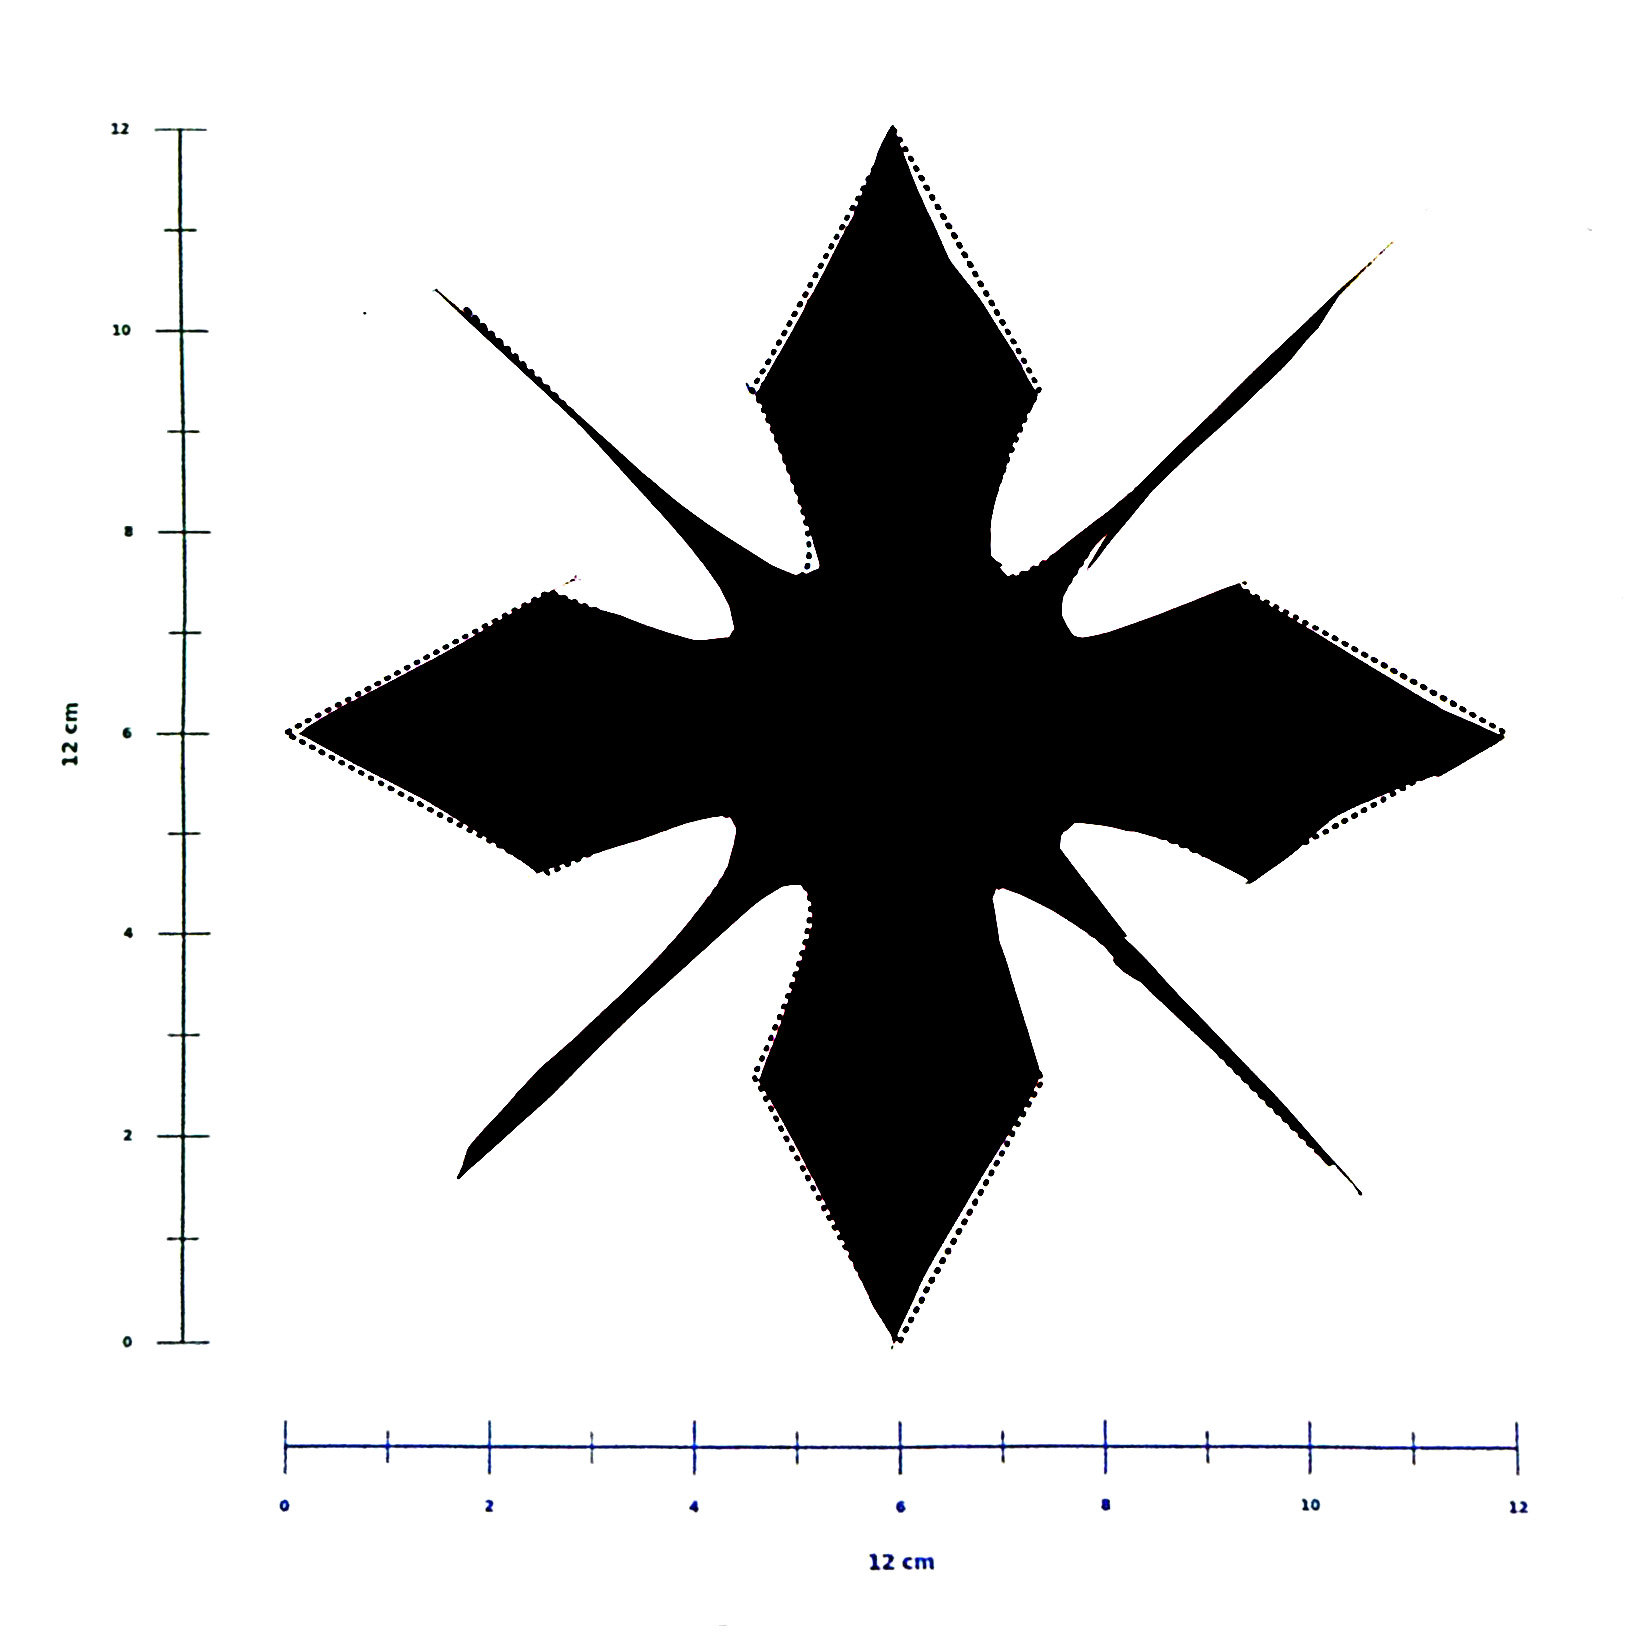
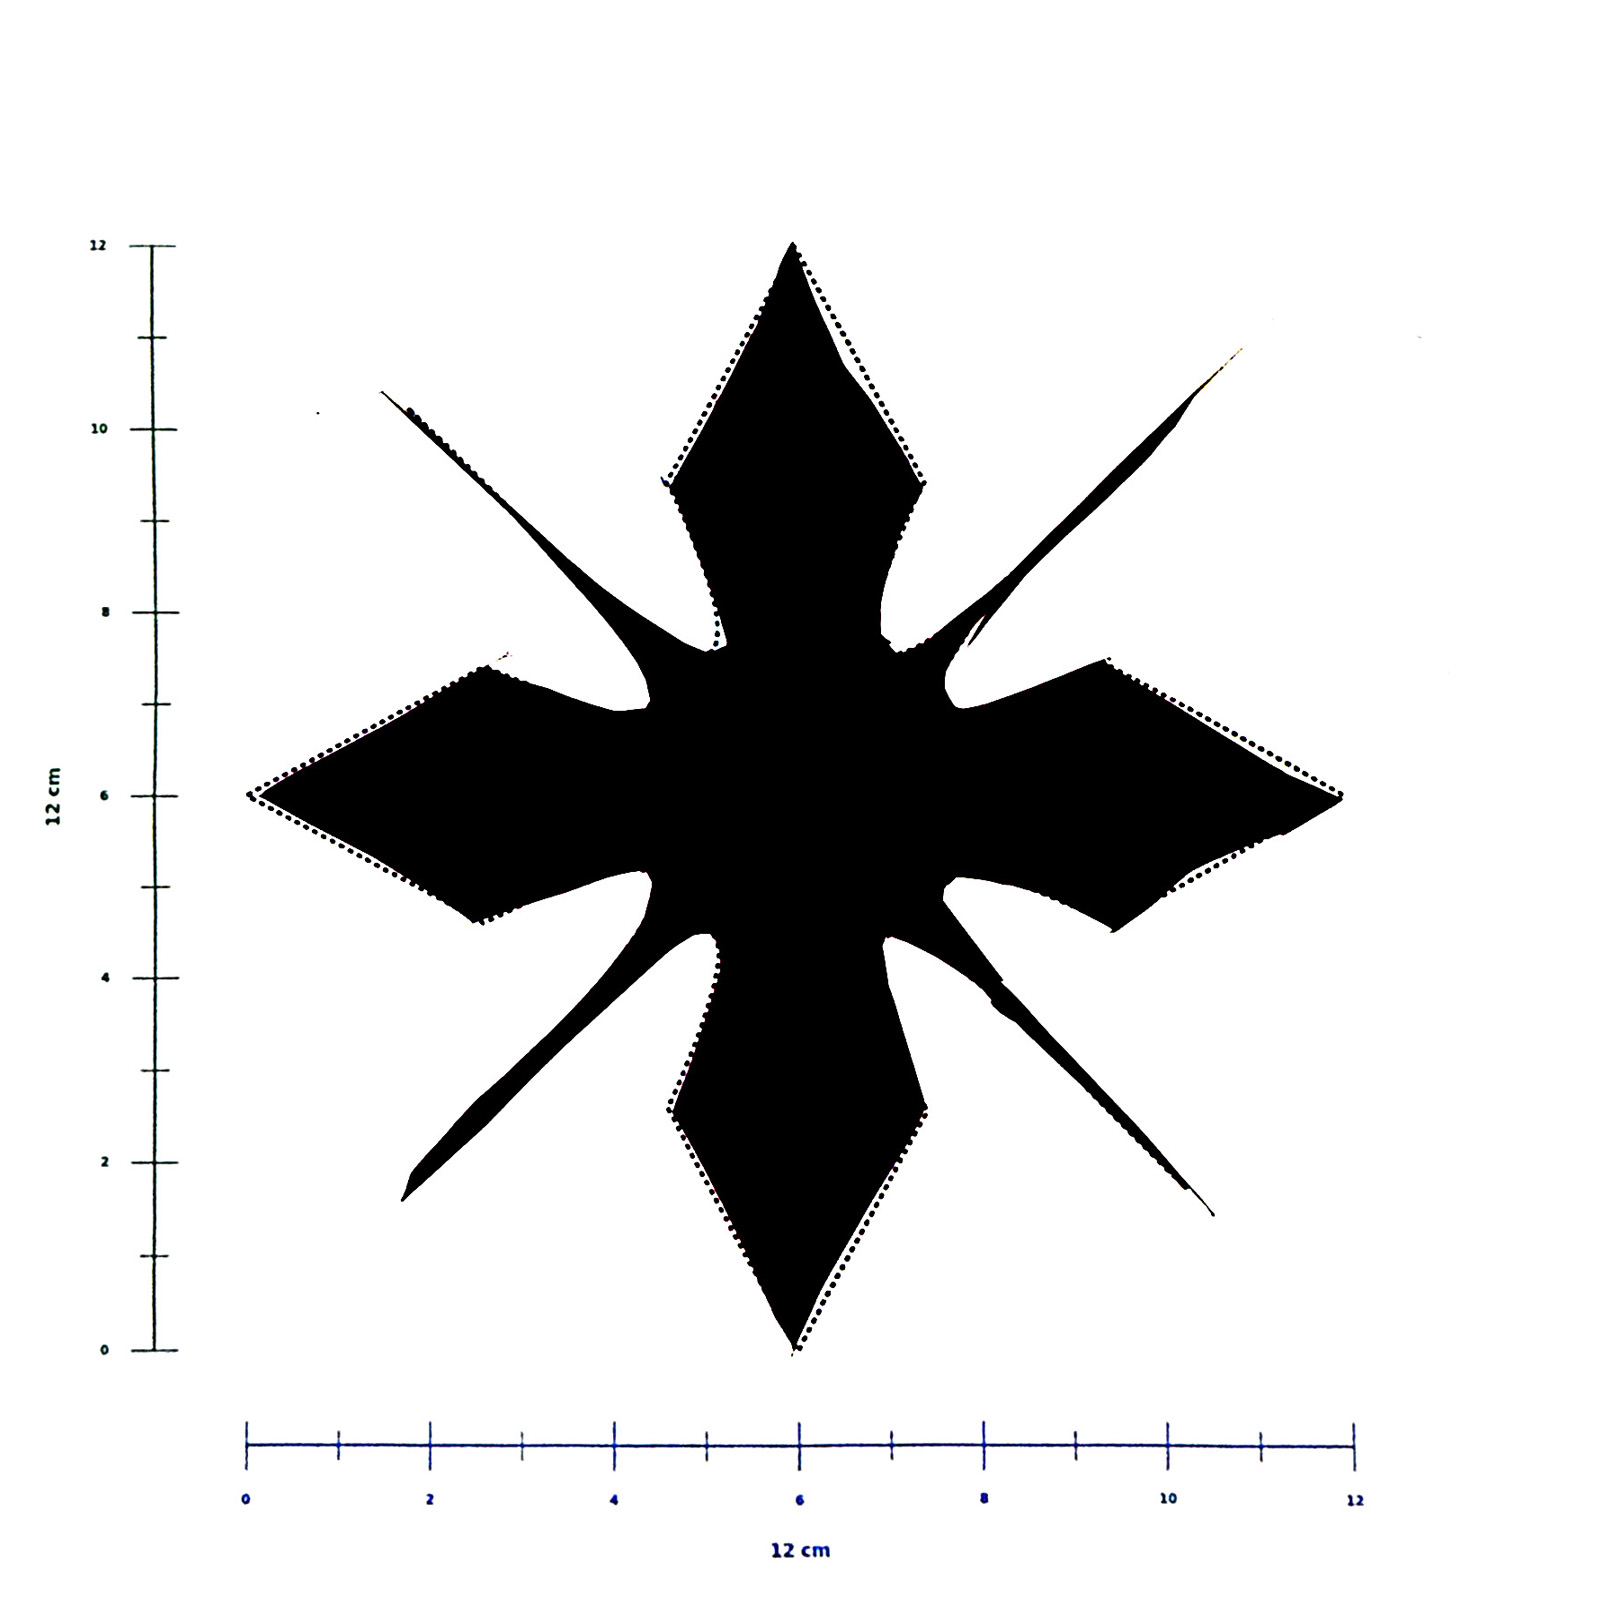
Select registration by contour MAD; improve axes
Add contour-based registration selection and axis-detection improvements. Introduces a selection flow in CLI that evaluates ORB/ECC/axes candidates by MAD between warped real contour and ideal points (KD-tree) and records selection_strategy, selection_mad_px and candidate debug rows in the report. Register module: include span estimates in axis frames, scale basis by span, refine Hough preprocessing (segment min ratio, ROI filters, lower Hough threshold floor), and add helpers to fit axis lines and estimate spans. Config: new registration options (axes_segment_min_line_ratio, axes_horizontal_roi_min_y_ratio, axes_vertical_roi_max_x_ratio). Add a pipeline runner script (executar_pipeline.command) and a unit test (tests/test_registration_selection.py) for the registration selection logic; update an existing CLI test to pick available template filename. Also remove some debug image outputs in CLI and adjust imports accordingly. Binary test image updated.

diff --git a/src/cut_precision/cli.py b/src/cut_precision/cli.py
@@ -29,6 +29,7 @@ from .metrics import (
     to_mm,
 )
 from .register import (
+    RegistrationResult,
     estimate_homography_axes,
     estimate_homography_ecc,
     estimate_homography_orb,
@@ -46,7 +47,6 @@ from .tau import (
 )
 from .tau_export import write_tau_curve_csv, write_tau_curve_png
 from .visualize import (
-    save_distance_map,
     save_error_map,
     save_histogram,
     save_mask,
@@ -381,7 +381,6 @@ def main(argv: list[str] | None = None) -> int:
     ideal = extract_ideal_contour(template, cfg.extraction)
     real = extract_real_contour(test, cfg.extraction)
     if args.debug:
-        save_mask(out_dir / "ideal_mask.png", ideal.cleaned_mask)
         save_mask(out_dir / "real_mask.png", real.cleaned_mask)
 
     if not ideal.success or not real.success:
@@ -398,14 +397,14 @@ def main(argv: list[str] | None = None) -> int:
         return 2
 
     registration = estimate_homography_orb(template, test, cfg.registration)
-    if not registration.success and cfg.registration.use_axes_fallback:
-        axes_registration = estimate_homography_axes(template, test, cfg.registration)
-        if axes_registration.success:
-            registration = axes_registration
-    if not registration.success and cfg.registration.use_ecc_fallback:
-        ecc_registration = estimate_homography_ecc(template, test, cfg.registration)
-        if ecc_registration.success:
-            registration = ecc_registration
+    registration, reg_selection_mad_px, reg_candidates = _select_registration_with_contour_score(
+        template=template,
+        test=test,
+        cfg=cfg,
+        ideal_contour=ideal.contour,
+        real_contour=real.contour,
+        first_attempt=registration,
+    )
     homography = registration.homography if registration.success else np.eye(3, dtype=np.float32)
     real_points_aligned = warp_points(real.contour, homography)
 
@@ -475,8 +474,6 @@ def main(argv: list[str] | None = None) -> int:
     save_overlay(out_dir / "overlay.png", template, ideal_points, real_points)
     save_error_map(out_dir / "error_map.png", template, real_points, dist_px)
     save_histogram(out_dir / "error_hist.png", dist_px)
-    if args.debug:
-        save_distance_map(out_dir / "dist_map.png", dist_map)
     _write_distances_csv(out_dir / "distances.csv", real_points, dist_px, calib.mm_per_px)
 
     report = {
@@ -495,6 +492,9 @@ def main(argv: list[str] | None = None) -> int:
             "inlier_ratio": registration.inlier_ratio,
             "reprojection_error_px": registration.reprojection_error_px,
             "reason": registration.reason,
+            "selection_strategy": "min_contour_mad_kdtree",
+            "selection_mad_px": reg_selection_mad_px,
+            "candidates": reg_candidates,
         },
         "calibration": {
             "status": calib.status,
@@ -605,6 +605,91 @@ def _write_distances_csv(
         else:
             for idx, (pt, dpx) in enumerate(zip(points, distances_px, strict=True)):
                 writer.writerow([idx, float(pt[0]), float(pt[1]), float(dpx), float(dpx * mm_per_px)])
+
+
+def _select_registration_with_contour_score(
+    template: np.ndarray,
+    test: np.ndarray,
+    cfg: AppConfig,
+    ideal_contour: np.ndarray,
+    real_contour: np.ndarray,
+    first_attempt: RegistrationResult,
+) -> tuple[RegistrationResult, float | None, list[dict[str, float | int | str | bool | None]]]:
+    candidates: list[RegistrationResult] = [first_attempt]
+    if cfg.registration.use_axes_fallback:
+        candidates.append(estimate_homography_axes(template, test, cfg.registration))
+    if cfg.registration.use_ecc_fallback:
+        candidates.append(estimate_homography_ecc(template, test, cfg.registration))
+
+    ideal_points = resample_closed_contour(
+        ideal_contour,
+        step_px=cfg.sampling.step_px,
+        num_points=cfg.sampling.num_points,
+        max_points=cfg.sampling.max_points,
+    )
+    return _pick_best_registration_for_contour(
+        candidates=candidates,
+        real_contour=real_contour,
+        ideal_points=ideal_points,
+        cfg=cfg,
+    )
+
+
+def _pick_best_registration_for_contour(
+    candidates: list[RegistrationResult],
+    real_contour: np.ndarray,
+    ideal_points: np.ndarray,
+    cfg: AppConfig,
+) -> tuple[RegistrationResult, float | None, list[dict[str, float | int | str | bool | None]]]:
+    debug_rows: list[dict[str, float | int | str | bool | None]] = []
+    best_candidate: RegistrationResult | None = None
+    best_mad: float | None = None
+
+    for reg in candidates:
+        mad_px = None
+        if reg.success:
+            mad_px = _registration_mad_px(
+                real_contour=real_contour,
+                ideal_points=ideal_points,
+                homography=reg.homography,
+                cfg=cfg,
+            )
+            if best_mad is None or mad_px < best_mad:
+                best_mad = mad_px
+                best_candidate = reg
+        debug_rows.append(
+            {
+                "method": reg.method,
+                "success": reg.success,
+                "reason": reg.reason,
+                "matches_total": reg.matches_total,
+                "matches_used": reg.matches_used,
+                "inlier_ratio": reg.inlier_ratio,
+                "reprojection_error_px": reg.reprojection_error_px,
+                "selection_mad_px": mad_px,
+            }
+        )
+
+    if best_candidate is not None:
+        return best_candidate, best_mad, debug_rows
+    return candidates[0], None, debug_rows
+
+
+def _registration_mad_px(
+    real_contour: np.ndarray,
+    ideal_points: np.ndarray,
+    homography: np.ndarray,
+    cfg: AppConfig,
+) -> float:
+    warped = warp_points(real_contour, homography)
+    warped_points = resample_closed_contour(
+        warped,
+        step_px=cfg.sampling.step_px,
+        num_points=cfg.sampling.num_points,
+        max_points=cfg.sampling.max_points,
+    )
+    distances = distances_via_kdtree(warped_points, ideal_points)
+    return float(compute_statistics(distances).mad)
 
 
 def _git_commit() -> str | None:

diff --git a/src/cut_precision/register.py b/src/cut_precision/register.py
@@ -25,6 +25,8 @@ class _AxisFrame:
     origin: np.ndarray
     u_h: np.ndarray
     u_v: np.ndarray
+    span_h: float
+    span_v: float
 
 
 def estimate_homography_orb(
@@ -133,8 +135,12 @@ def estimate_homography_axes(
             reason="axis_detection_failed",
         )
 
-    src_basis = np.column_stack([test_frame.u_h, test_frame.u_v]).astype(np.float64)
-    dst_basis = np.column_stack([template_frame.u_h, template_frame.u_v]).astype(np.float64)
+    src_basis = np.column_stack(
+        [test_frame.u_h * test_frame.span_h, test_frame.u_v * test_frame.span_v]
+    ).astype(np.float64)
+    dst_basis = np.column_stack(
+        [template_frame.u_h * template_frame.span_h, template_frame.u_v * template_frame.span_v]
+    ).astype(np.float64)
 
     det = float(np.linalg.det(src_basis))
     if abs(det) < 1e-6:
@@ -265,12 +271,12 @@ def _detect_axis_frame(image_bgr: np.ndarray, cfg: RegistrationConfig) -> _AxisF
     blur = cv2.GaussianBlur(gray, (5, 5), 0)
     edges = cv2.Canny(blur, cfg.axes_canny_low, cfg.axes_canny_high)
     h, w = edges.shape[:2]
-    min_len = int(max(h, w) * cfg.axes_min_line_ratio)
+    min_len = int(max(h, w) * cfg.axes_segment_min_line_ratio)
     lines = cv2.HoughLinesP(
         edges,
         rho=1.0,
         theta=np.pi / 180.0,
-        threshold=cfg.axes_hough_threshold,
+        threshold=max(30, int(round(cfg.axes_hough_threshold * 0.5))),
         minLineLength=min_len,
         maxLineGap=cfg.axes_max_line_gap,
     )
@@ -280,16 +286,18 @@ def _detect_axis_frame(image_bgr: np.ndarray, cfg: RegistrationConfig) -> _AxisF
     horizontals: list[np.ndarray] = []
     verticals: list[np.ndarray] = []
     tol = float(cfg.axes_angle_tolerance_deg)
+    min_y = float(h) * float(cfg.axes_horizontal_roi_min_y_ratio)
+    max_x = float(w) * float(cfg.axes_vertical_roi_max_x_ratio)
 
     for line in lines[:, 0, :]:
         x1, y1, x2, y2 = map(float, line.tolist())
         dx, dy = x2 - x1, y2 - y1
         length = float(np.hypot(dx, dy))
-        if length < min_len:
-            continue
         angle = float(np.degrees(np.arctan2(dy, dx)))
         angle_abs = abs(((angle + 180.0) % 180.0))
-        line_vec = np.array([x1, y1, x2, y2, length], dtype=np.float64)
+        cx = 0.5 * (x1 + x2)
+        cy = 0.5 * (y1 + y2)
+        line_vec = np.array([x1, y1, x2, y2, length, cx, cy], dtype=np.float64)
         if angle_abs <= tol or angle_abs >= (180.0 - tol):
             horizontals.append(line_vec)
         if abs(angle_abs - 90.0) <= tol:
@@ -298,22 +306,32 @@ def _detect_axis_frame(image_bgr: np.ndarray, cfg: RegistrationConfig) -> _AxisF
     if not horizontals or not verticals:
         return None
 
-    h_line = max(horizontals, key=lambda l: float(l[4]))
-    v_line = max(verticals, key=lambda l: float(l[4]))
+    horizontal_roi = [seg for seg in horizontals if float(seg[6]) >= min_y]
+    vertical_roi = [seg for seg in verticals if float(seg[5]) <= max_x]
+    if horizontal_roi:
+        horizontals = horizontal_roi
+    if vertical_roi:
+        verticals = vertical_roi
 
-    h_p1, h_p2 = h_line[:2], h_line[2:4]
-    v_p1, v_p2 = v_line[:2], v_line[2:4]
+    if not horizontals or not verticals:
+        return None
+
+    h_point, u_h = _fit_axis_line(horizontals)
+    v_point, u_v = _fit_axis_line(verticals)
+    if h_point is None or u_h is None or v_point is None or u_v is None:
+        return None
+
+    h_p1 = h_point - 1000.0 * u_h
+    h_p2 = h_point + 1000.0 * u_h
+    v_p1 = v_point - 1000.0 * u_v
+    v_p2 = v_point + 1000.0 * u_v
     origin = _line_intersection(h_p1, h_p2, v_p1, v_p2)
     if origin is None:
         return None
 
-    u_h = _unit_direction(h_p1, h_p2)
-    u_v = _unit_direction(v_p1, v_p2)
-    if u_h is None or u_v is None:
-        return None
     if u_h[0] < 0:
         u_h = -u_h
-    if u_v[1] < 0:
+    if u_v[1] > 0:
         u_v = -u_v
 
     # Keep only near-orthogonal frames; rejects accidental long contour lines.
@@ -321,11 +339,50 @@ def _detect_axis_frame(image_bgr: np.ndarray, cfg: RegistrationConfig) -> _AxisF
     if ortho > np.cos(np.deg2rad(max(1.0, 90.0 - tol))):
         return None
 
+    span_h = _estimate_axis_span(origin, u_h, horizontals)
+    span_v = _estimate_axis_span(origin, u_v, verticals)
+    if span_h <= 1.0 or span_v <= 1.0:
+        return None
+
     return _AxisFrame(
         origin=origin.astype(np.float64),
         u_h=u_h.astype(np.float64),
         u_v=u_v.astype(np.float64),
+        span_h=float(span_h),
+        span_v=float(span_v),
     )
+
+
+def _fit_axis_line(segments: list[np.ndarray]) -> tuple[np.ndarray | None, np.ndarray | None]:
+    if not segments:
+        return None, None
+    pts: list[list[float]] = []
+    for seg in segments:
+        pts.append([float(seg[0]), float(seg[1])])
+        pts.append([float(seg[2]), float(seg[3])])
+    arr = np.array(pts, dtype=np.float32)
+    if arr.shape[0] < 2:
+        return None, None
+    line = cv2.fitLine(arr, cv2.DIST_L2, 0, 0.01, 0.01)
+    vx, vy, x0, y0 = [float(v) for v in line.flatten().tolist()]
+    direction = np.array([vx, vy], dtype=np.float64)
+    norm = float(np.linalg.norm(direction))
+    if norm < 1e-8:
+        return None, None
+    point = np.array([x0, y0], dtype=np.float64)
+    return point, direction / norm
+
+
+def _estimate_axis_span(origin: np.ndarray, axis_u: np.ndarray, segments: list[np.ndarray]) -> float:
+    projections: list[float] = []
+    for seg in segments:
+        p1 = np.array([float(seg[0]), float(seg[1])], dtype=np.float64)
+        p2 = np.array([float(seg[2]), float(seg[3])], dtype=np.float64)
+        projections.append(float(abs(np.dot(p1 - origin, axis_u))))
+        projections.append(float(abs(np.dot(p2 - origin, axis_u))))
+    if not projections:
+        return 0.0
+    return float(np.percentile(np.array(projections, dtype=np.float64), 95.0))
 
 
 def _line_intersection(

diff --git a/tests/test_registration_selection.py b/tests/test_registration_selection.py
@@ -1,0 +1,54 @@
+import numpy as np
+
+from cut_precision.cli import _pick_best_registration_for_contour
+from cut_precision.config import AppConfig
+from cut_precision.register import RegistrationResult
+
+
+def _make_registration(method: str, tx: float, ty: float, success: bool = True) -> RegistrationResult:
+    homography = np.array(
+        [
+            [1.0, 0.0, tx],
+            [0.0, 1.0, ty],
+            [0.0, 0.0, 1.0],
+        ],
+        dtype=np.float32,
+    )
+    return RegistrationResult(
+        success=success,
+        homography=homography if success else np.eye(3, dtype=np.float32),
+        method=method,
+        matches_total=0,
+        matches_used=0,
+        inlier_ratio=1.0 if success else 0.0,
+        reprojection_error_px=None,
+        reason=None if success else "failed",
+    )
+
+
+def test_pick_best_registration_for_contour_by_mad():
+    cfg = AppConfig.from_path(None)
+    top = [[float(x), 0.0] for x in range(0, 101)]
+    right = [[100.0, float(y)] for y in range(1, 101)]
+    bottom = [[float(x), 100.0] for x in range(99, -1, -1)]
+    left = [[0.0, float(y)] for y in range(99, 0, -1)]
+    ideal = np.array(top + right + bottom + left, dtype=np.float32)
+    # Real contour is translated by (+20, -10), so best homography should undo that.
+    real = ideal + np.array([20.0, -10.0], dtype=np.float32)
+
+    good = _make_registration("good", tx=-20.0, ty=10.0, success=True)
+    bad = _make_registration("bad", tx=0.0, ty=0.0, success=True)
+    failed = _make_registration("failed", tx=0.0, ty=0.0, success=False)
+
+    chosen, best_mad, rows = _pick_best_registration_for_contour(
+        candidates=[bad, good, failed],
+        real_contour=real,
+        ideal_points=ideal,
+        cfg=cfg,
+    )
+    assert chosen.method == "good"
+    assert best_mad is not None
+    assert best_mad < 0.5
+    assert len(rows) == 3
+    assert rows[0]["selection_mad_px"] is not None
+    assert rows[2]["selection_mad_px"] is None

diff --git a/tests/test_cli_tau_policy.py b/tests/test_cli_tau_policy.py
@@ -58,11 +58,13 @@ def test_pipeline_cli_labeled_policy_is_recorded_in_report(tmp_path):
     _write_report(tmp_path / "bad1.json", mad_px=35.0, scale_px=100.0)
     _write_report(tmp_path / "bad2.json", mad_px=40.0, scale_px=100.0)
 
+    template_path = "original.jpeg" if Path("original.jpeg").exists() else "original.jpg"
+
     out_dir = tmp_path / "out"
     rc = pipeline_main(
         [
             "--template",
-            "original.jpeg",
+            template_path,
             "--test",
             "teste_1.jpg",
             "--out",

diff --git a/src/cut_precision/config.py b/src/cut_precision/config.py
@@ -36,8 +36,11 @@ class RegistrationConfig:
     axes_canny_high: int = 150
     axes_hough_threshold: int = 120
     axes_min_line_ratio: float = 0.20
+    axes_segment_min_line_ratio: float = 0.05
     axes_max_line_gap: int = 15
     axes_angle_tolerance_deg: float = 20.0
+    axes_horizontal_roi_min_y_ratio: float = 0.65
+    axes_vertical_roi_max_x_ratio: float = 0.35
     use_ecc_fallback: bool = True
     ecc_motion: str = "affine"
     ecc_iterations: int = 1500
